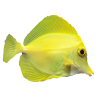
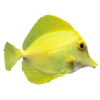
the fish can swim

diff --git a/ClientApp/src/app/fish/fish.component.ts b/ClientApp/src/app/fish/fish.component.ts
@@ -1,4 +1,6 @@
-import { Component, OnInit } from '@angular/core';
+import { Component, OnInit, Input } from '@angular/core';
+import { Subscription, Observable } from 'rxjs';
+import { inflate } from 'zlib';
 
 @Component({
   selector: 'app-fish',
@@ -9,32 +11,128 @@ export class FishComponent implements OnInit {
 
   constructor() { }
 
-  left_pos: number;
-  color_var: string;
+  @Input() left_pos: number;
+  @Input() top_pos: number;
+  direction: number;
+  frame_count: number; //frame leek issue??
+  oscilation: number;
+  width:number;
+  turn: boolean; //will the fish turn?
+  speed:number;
+
+  //related to feeding
+  has_target: boolean;
+  @Input() target_top: number;
+  @Input() target_left: number;
+  //color_var: string;
+
+  private eventsSubscription: Subscription;
+
+  @Input() events: Observable<number[]>;
 
   ngOnInit() {
-    this.left_pos = 0;
-    this.color_var = `rgb(${0},${0},${0})`;
+    this.has_target = false;
+    this.target_top = 0;
+    this.target_left = 0;
+    this.width = 100;
+    this.oscilation = 0;
+    this.frame_count = 0;
+    this.direction = 1;
+    this.speed = 3;
+    this.turn = false;
+    //this.color_var = `rgb(${0},${0},${0})`;
+    this.eventsSubscription = this.events.subscribe((f_loc:number[]) => this.seeFood(f_loc));
     this.update();
+  }
+
+  ngOnDestroy() {
+    this.eventsSubscription.unsubscribe();
+  }
+
+  seeFood(f_loc){
+    console.log("food!");
+    this.target_top = f_loc[1];
+    this.target_left = f_loc[0];
+    console.log(this.target_top +" "+this.target_left);
+    this.has_target = true;
+    this.speed = 6;
   }
 
   update(){
     setInterval(() => {
-      let r =  Math.floor((Math.random() * 256));
-      let g =  Math.floor((Math.random() * 256));
-      let b =  Math.floor((Math.random() * 256));
-      this.color_var =  `rgb(${r},${g},${b})`;
-      this.left_pos += 10;
-    },200);
+      // let r =  Math.floor((Math.random() * 256));
+      // let g =  Math.floor((Math.random() * 256));
+      // let b =  Math.floor((Math.random() * 256));
+      // this.color_var =  `rgb(${r},${g},${b})`;
+
+      this.frame_count += 1;
+      if( this.has_target ){
+        if( this.left_pos > this.target_left && this.direction == 1){
+          this.turn = true;
+        }else if( this.left_pos < this.target_left && this.direction == -1 ){
+          this.turn = true;
+        }
+
+        if( this.top_pos > this.target_top + this.speed ){
+          this.top_pos -= this.speed;
+        }
+        
+        if( this.top_pos < this.target_top - this.speed ){
+          this.top_pos += this.speed;
+        }
+      }else{
+        if( this.left_pos > 800 && this.direction == 1){
+          this.turn = true;
+        }else if( this.left_pos < 300 && this.direction == -1 ){
+          this.turn = true;
+        }
+      }
+
+      this.left_pos += this.speed*this.direction;
+      this.oscilation = 10*Math.sin(0.03*this.speed*this.frame_count);
+      this.turnFish();
+    },30);
+  }
+
+  turnFish(){
+    if(this.width > 0 && this.turn == true){ //turn fish
+      this.width -= 10;
+    }
+    
+    if(this.turn == true && this.width <= 0){ //width == 0, change direction
+      this.direction *= -1;
+      this.turn = false;
+    }
+
+    if(this.width < 100 && this.turn == false){ //finish turn
+      this.width += 10;
+      if(this.width > 100){
+        this.width = 100;
+      }
+    }
   }
 
   updateStyles() {
     let styles = {
-      'background-color' : this.color_var,
-      'left': `${this.left_pos}px`
+      //'background-color' : this.color_var,
+      'left': `${this.left_pos}px`,
+      'top': `${this.top_pos + this.oscilation}px`,
+      'transform': `scaleX(${this.direction}`,
+      'width': `${this.width}px`
     };
 
     return styles;
-} 
+  } 
+
+  baitFish(event){
+
+    var x = event.x;
+    var y = event.y;
+    var offsetX = event.offsetX;
+    var offsetY = event.offsetY;
+
+    //mouse data
+    console.log(event, x, y, offsetX, offsetY);
+  };
 }
 

diff --git a/ClientApp/src/app/tank/tank.component.ts b/ClientApp/src/app/tank/tank.component.ts
@@ -1,4 +1,5 @@
 import { Component, OnInit } from '@angular/core';
+import { Subject } from 'rxjs';
 
 @Component({
   selector: 'app-tank',
@@ -7,9 +8,26 @@ import { Component, OnInit } from '@angular/core';
 })
 export class TankComponent implements OnInit {
 
+  food_top: number;
+  food_left: number;
+  eventsSubject: Subject<number[]> = new Subject<number[]>();
+
   constructor() { }
 
-  ngOnInit() {
+  ngOnInit() { }
+
+  baitFish(event){
+    var x = event.x;
+    var y = event.y;
+    var offsetX = event.offsetX;
+    var offsetY = event.offsetY;
+    console.log(event, x, y, offsetX, offsetY);
+    this.food_top = event.x;
+    this.food_left = event.y;
+    this.emitEventToChild(this.food_top, this.food_left);
   }
 
+  emitEventToChild(x:number, y:number) {
+    this.eventsSubject.next([x,y]);
+  }
 }

diff --git a/ClientApp/src/app/tank/tank.component.html b/ClientApp/src/app/tank/tank.component.html
@@ -1,2 +1,5 @@
-<app-fish></app-fish>
-<p>Test tank</p>
+<div class="tank" (click)="baitFish($event)">
+    <app-fish [top_pos]="200" [left_pos]="200" [events]="eventsSubject.asObservable()"></app-fish>
+    <app-fish [top_pos]="300" [left_pos]="300" [events]="eventsSubject.asObservable()"></app-fish>
+    <app-fish [top_pos]="400" [left_pos]="400" [events]="eventsSubject.asObservable()"></app-fish>
+</div>

diff --git a/ClientApp/src/app/fish/fish.component.html b/ClientApp/src/app/fish/fish.component.html
@@ -1,3 +1,1 @@
-<img src="/assets/yellow_fish.png" class="fish"  [ngStyle]="updateStyles()"  alt="fish">
-<p>Color Var: {{color_var}}</p>
-<p>Left Position: {{left_pos}}</p>
+<img src="/assets/yellow_fish.png" class="fish" [ngStyle]="updateStyles()" alt="fish">

diff --git a/ClientApp/src/app/home/home.component.html b/ClientApp/src/app/home/home.component.html
@@ -1,4 +1,3 @@
 <p>Home Page</p>
-<div class="tank"></div>
-<app-tank class="tank"></app-tank>
+<app-tank></app-tank>
 

diff --git a/ClientApp/src/app/tank/tank.component.css b/ClientApp/src/app/tank/tank.component.css
@@ -1,0 +1,5 @@
+.tank{
+    background-color: rgb(99, 153, 214);
+    height: 1080px;
+    width: 100%;
+}
